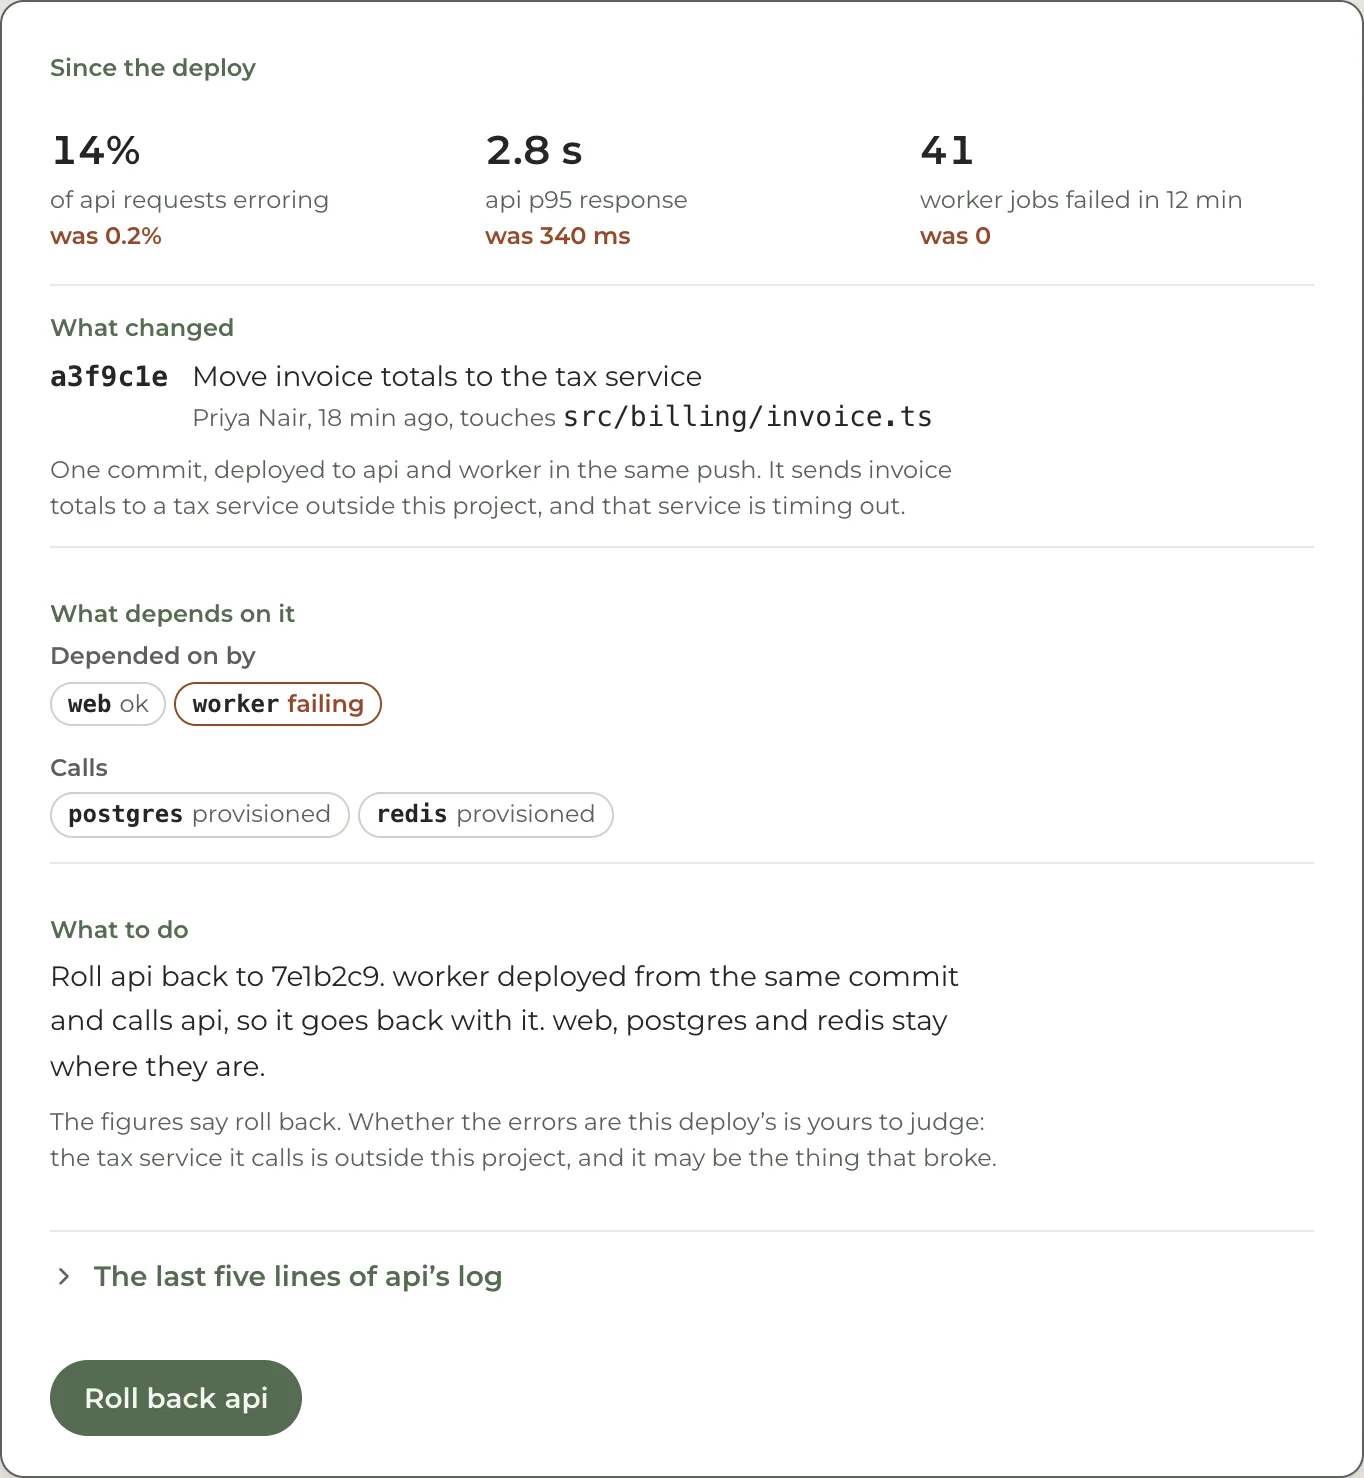
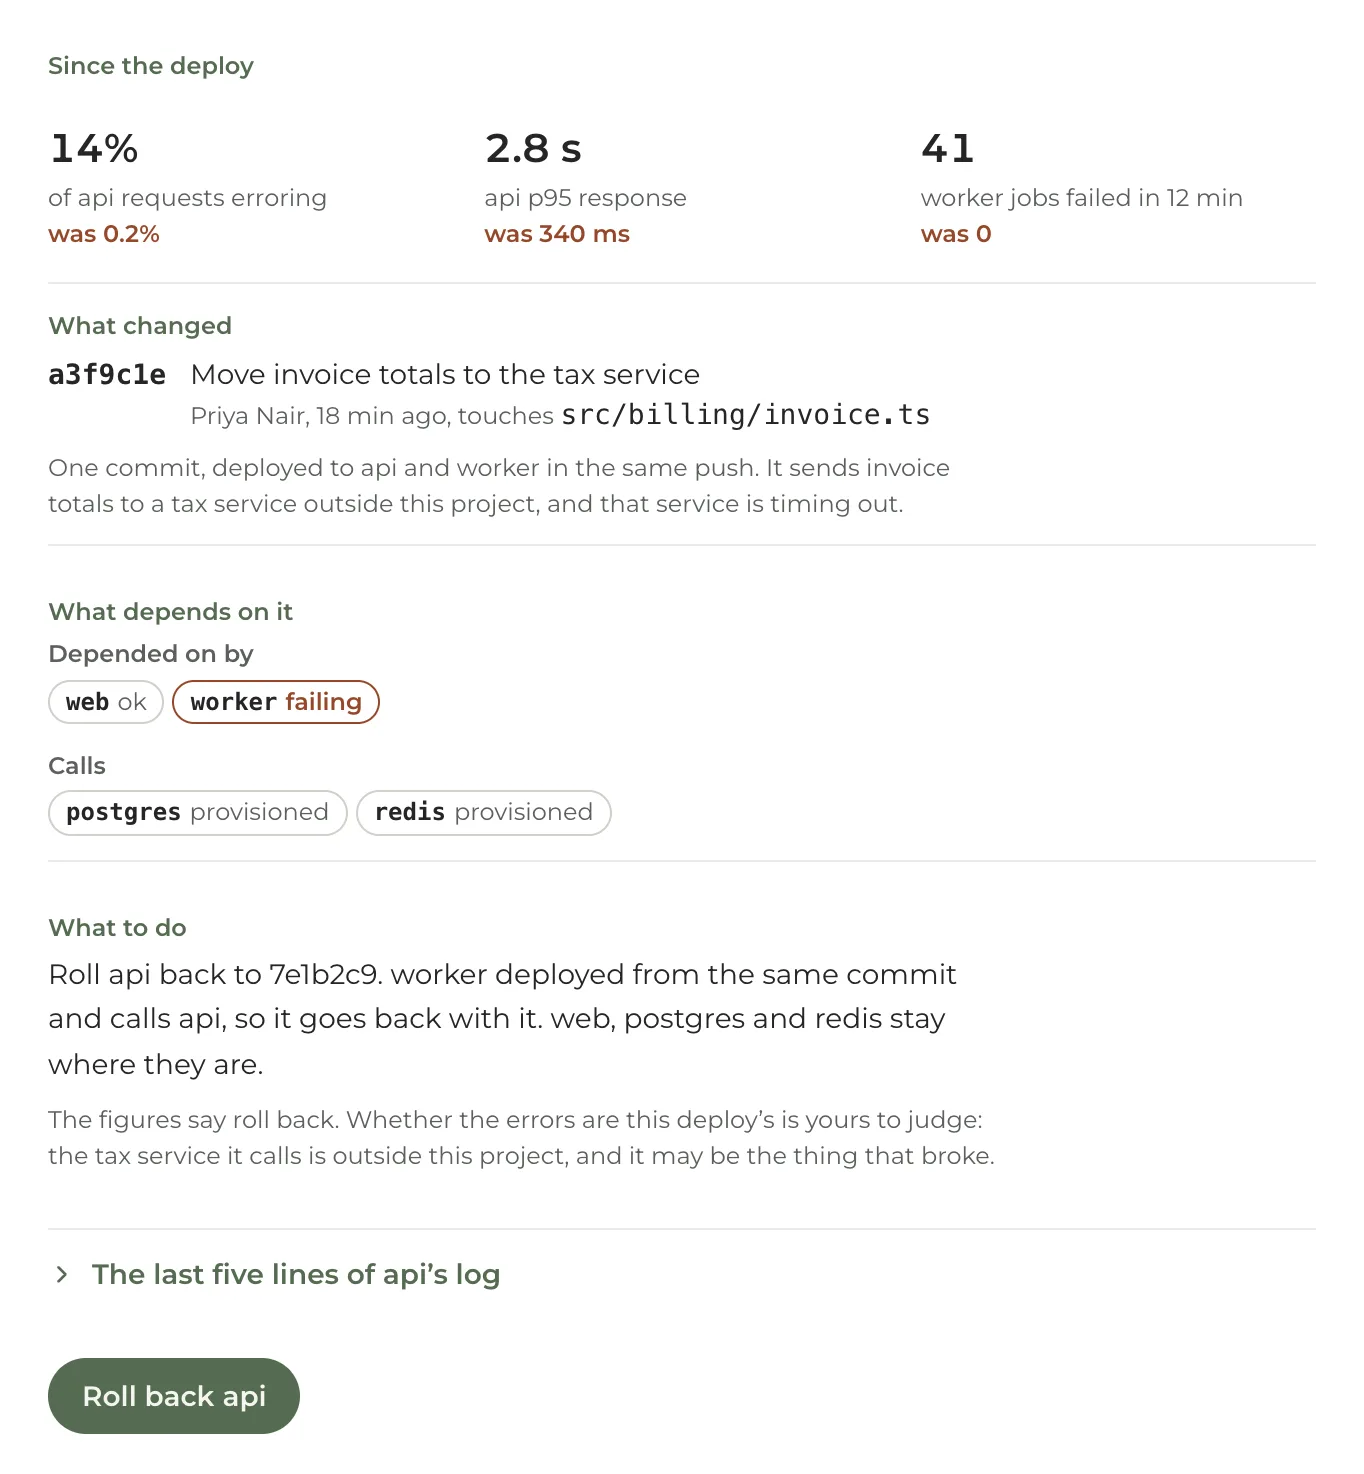
Decision 02's two captures stop carrying their own edge; the figure draws it
The refusal and the reading were captured with the card's border in the
file and then printed inside a figure with its own 12px curve and the
keyline in --shadow-media, so each read as an edge inside an edge.
console-shots.mjs now clips both to the card's padding box with no border,
no radius and no shadow, and the stylesheet draws the edge the card draws
on the live screen: 2px of the caution ink on the refusal, 1px of
muted-gray on the reading, on the figure's own curve, with --shadow-media
off because its keyline was a second line outside the first. Two classes
deep, because .dcw-frames img is declared later at the same specificity.

The files lose 8 and 4 pixels of height and keep their width, so the
ceilings hold at 682. Scoped to the page: resting 2102, curve elements 5322
(the hero's four checked lines from the commit before, 17 elements over 8
loads), raised surfaces 99, all green. style.css is untouched, so the full
run already started on this branch still answers for it.

diff --git a/prototype/deploy-console.html b/prototype/deploy-console.html
@@ -121,7 +121,7 @@
   <!-- The chapters arrive as they are read. See reveal.css for why this is
        its own pair of files rather than style.css's .reveal. -->
   <link rel="stylesheet" href="../reveal.css?v=2" />
-  <link rel="stylesheet" href="deploy-console.css?v=2" />
+  <link rel="stylesheet" href="deploy-console.css?v=3" />
   <link rel="stylesheet" href="../read-aloud.css?v=4" />
   <!-- EMBED MODE, the cockpit's own flag on this page too. The homepage's
        prototype card opens the console in a tablet over the page, and what
@@ -435,15 +435,15 @@
               <ol class="dcw-frames">
                 <li class="dcw-frame--fail">
                   <div class="dcw-scroll">
-                    <img src="../img/console/failed.webp?v=1" width="1364" height="1390" loading="lazy" decoding="async" alt="A caution-outlined card on a pale caution ground, headed &ldquo;a3f9c1e failed at the build, step 3 of 4&rdquo;, with four labeled answers under it: what failed, with the TypeScript error line; what changed since it last built, two commits, one marked as touching src/billing/invoice.ts; what depends on it, web and worker, both still on the live deploy; and what to do, fix the build and push, there is nothing to roll back. A folded row offers the last nine lines of the build log and a quiet button reads &ldquo;Retry the build&rdquo;." />
+                    <img src="../img/console/failed.webp?v=2" width="1364" height="1382" loading="lazy" decoding="async" alt="A caution-outlined card on a pale caution ground, headed &ldquo;a3f9c1e failed at the build, step 3 of 4&rdquo;, with four labeled answers under it: what failed, with the TypeScript error line; what changed since it last built, two commits, one marked as touching src/billing/invoice.ts; what depends on it, web and worker, both still on the live deploy; and what to do, fix the build and push, there is nothing to roll back. A folded row offers the last nine lines of the build log and a quiet button reads &ldquo;Retry the build&rdquo;." />
                   </div>
-                  <p class="dcw-frame-cap"><span>A refusal</span> The platform would not promote it. Caution ground, the live deploy untouched, and the one thing to do. <a class="dcw-full" href="../img/console/failed.webp?v=1">Full size &#8599;<span class="visually-hidden">, the refusal</span></a></p>
+                  <p class="dcw-frame-cap"><span>A refusal</span> The platform would not promote it. Caution ground, the live deploy untouched, and the one thing to do. <a class="dcw-full" href="../img/console/failed.webp?v=2">Full size &#8599;<span class="visually-hidden">, the refusal</span></a></p>
                 </li>
                 <li class="dcw-frame--read">
                   <div class="dcw-scroll">
-                    <img src="../img/console/reading.webp?v=1" width="1364" height="1478" loading="lazy" decoding="async" alt="A white card with a dark edge, headed &ldquo;Since the deploy&rdquo;, with three figures: 14% of api requests erroring, was 0.2%; p95 2.8 s, was 340 ms; 41 worker jobs failed in 12 min, was 0. Under them, what changed, one commit; what depends on it, chips reading worker failing and web ok; and what to do, roll api back to 7e1b2c9, with a note that the tax service it calls is outside the project and may be the thing that broke. A sage button reads &ldquo;Roll back api&rdquo;." />
+                    <img src="../img/console/reading.webp?v=2" width="1364" height="1474" loading="lazy" decoding="async" alt="A white card with a dark edge, headed &ldquo;Since the deploy&rdquo;, with three figures: 14% of api requests erroring, was 0.2%; p95 2.8 s, was 340 ms; 41 worker jobs failed in 12 min, was 0. Under them, what changed, one commit; what depends on it, chips reading worker failing and web ok; and what to do, roll api back to 7e1b2c9, with a note that the tax service it calls is outside the project and may be the thing that broke. A sage button reads &ldquo;Roll back api&rdquo;." />
                   </div>
-                  <p class="dcw-frame-cap"><span>A reading</span> The platform has nothing to refuse. White card, the figures beside their befores, and a decision asked for. <a class="dcw-full" href="../img/console/reading.webp?v=1">Full size &#8599;<span class="visually-hidden">, the reading</span></a></p>
+                  <p class="dcw-frame-cap"><span>A reading</span> The platform has nothing to refuse. White card, the figures beside their befores, and a decision asked for. <a class="dcw-full" href="../img/console/reading.webp?v=2">Full size &#8599;<span class="visually-hidden">, the reading</span></a></p>
                 </li>
               </ol>
             </figure>

diff --git a/prototype/deploy-console.css b/prototype/deploy-console.css
@@ -358,9 +358,20 @@
 .dcw-shot img,
 .dcw-frames img { max-width: var(--shot-w, 100%); }
 /* NOTHING IS PRINTED ABOVE THE SIZE IT WAS DRAWN, which is half the file:
-   the captures are taken at two device pixels to one. Per capture. */
+   the captures are taken at two device pixels to one. Per capture, and the
+   ceiling is the border box: the file's half width plus the edge below. */
 .dcw-frame--fail { --shot-w: 682px; }
 .dcw-frame--read { --shot-w: 682px; }
+/* THE EDGE IS THE PAGE'S, NOT THE FILE'S. console-shots.mjs clips these two
+   to the card's padding box with no border, and the figure draws the edge
+   the card draws on the live screen: the 2px caution ink for the refusal,
+   the 1px muted-gray for the reading, each on the figure's 12px curve. One
+   line rather than the file's edge inside the figure's. --shadow-media
+   comes off, because its keyline is a second edge outside this one. */
+/* Two classes deep, because .dcw-frames img is declared later at the same
+   specificity and would put the keyline back. */
+.dcw-frames .dcw-frame--fail img { border: 2px solid var(--color-caution-text); box-shadow: none; }
+.dcw-frames .dcw-frame--read img { border: 1px solid var(--color-muted-gray); box-shadow: none; }
 .case-section .dcw-frame-cap {
   margin: var(--space-sm) 0 0;
   max-width: var(--measure);
